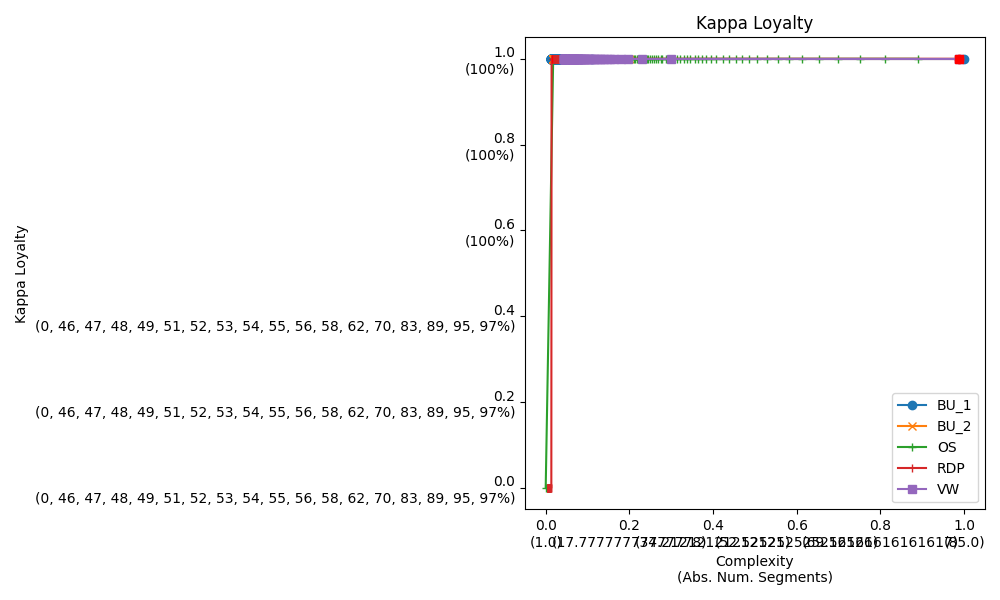
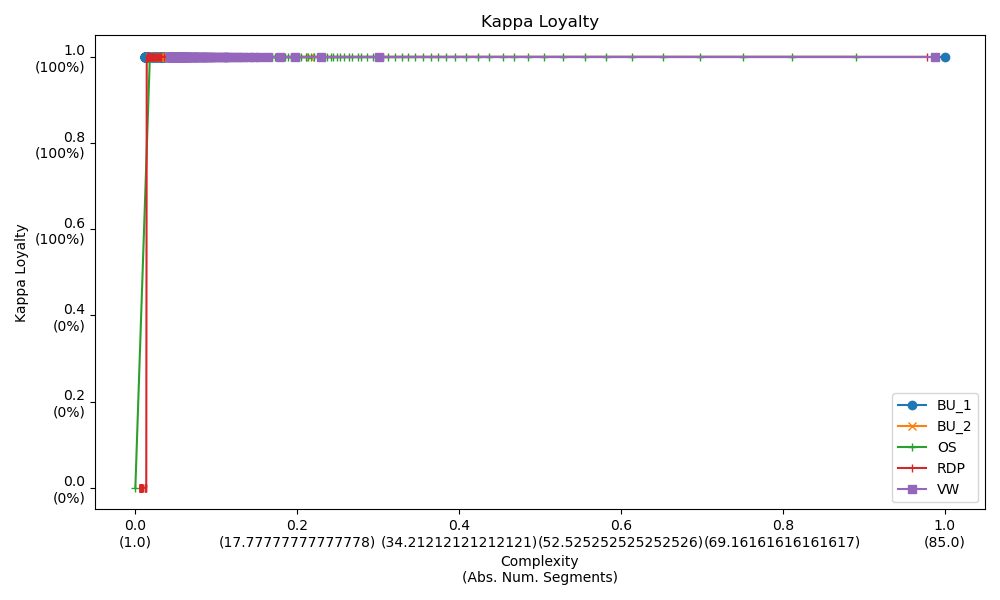
Fixed error when loading data as it included labels. Added a function in metrics to get comp at given loyalty

diff --git a/Utils/metrics.py b/Utils/metrics.py
@@ -3,8 +3,9 @@ from matplotlib import pyplot as plt
 from sklearn.metrics import cohen_kappa_score
 import pandas as pd
 from kneed import KneeLocator
+import pandas as pd
 
-from Utils.dataTypes import SegmentedTS 
+from dataTypes import SegmentedTS 
 
 def score_simplicity(approximation: SegmentedTS) -> float:
     if approximation.num_real_segments is None:
@@ -137,10 +138,7 @@ def find_knee_curve(x_values: list, y_values: list) -> tuple[float, float]:
     return knee_x, knee_y
 
 
-if __name__ == '__main__':
-    import pandas as pd
-    results_df = pd.read_csv("./results/results_copy.csv")
-
+def update_auc(results_df: pd.DataFrame) -> None:
     datasets_names = results_df["dataset"].unique().tolist()
     datasets = [dataset.replace("TEST_normalized","") for dataset in datasets_names]
 
@@ -155,14 +153,8 @@ if __name__ == '__main__':
             print(f"Model {model}")
             df = pd.read_csv(f"results/{dataset}/{model}_alpha_complexity_loyalty.csv")
             auc_values, filtered_curves = auc(df, show_fig=False)
-            
-            knees = {}
-            for simp_alg in filtered_curves.keys():
-                filtered_curve = filtered_curves[simp_alg]
-                filtered_complexity = filtered_curve[0]
-                filtered_kappa_loyalty = filtered_curve[1]
-                knee = find_knee_curve(filtered_complexity, filtered_kappa_loyalty)
-                knees[simp_alg] = knee
+            comp_threshold = get_loylaty_by_threshold(df, 0.8)
+                
 
             simp_alg = ["OS", "RDP", "VW", "BU_1", "BU_2"]
 
@@ -171,7 +163,7 @@ if __name__ == '__main__':
                 
                 if query_mask.any(): rows_to_drop.extend(results_df[query_mask].index.tolist())
                 
-                new_row = {"dataset": f"{dataset}TEST_normalized","model": f"{model}_norm.pth","simp_algorithm": alg,"performance": auc_values[alg],"knee(x,y)": str(knees[alg]),"time": 0.0}
+                new_row = {"dataset": f"{dataset}TEST_normalized","model": f"{model}_norm.pth","simp_algorithm": alg,"performance": auc_values[alg],"comp@loy=0.8": comp_threshold[alg],"time": 0.0}
                 rows_to_update.append(new_row)
     
     if rows_to_drop: results_df = results_df.drop(index=rows_to_drop)
@@ -182,3 +174,70 @@ if __name__ == '__main__':
         
     results_df.to_csv("./results/results_copy.csv", index=False)
     print("done")
+
+def get_loylaty_by_threshold(df: pd.DataFrame, loyalty_threshold: float, metric:str="Kappa Loyalty") -> dict[str, float]:
+    algorithms = df["Type"].unique()
+    threshold_comp = {}
+    
+    for algorithm in algorithms:
+        complexity = df["Complexity"].copy().where(df["Type"] == algorithm).dropna().to_list()
+        loyalty = df[metric].copy().where(df["Type"] == algorithm).dropna().to_list()
+
+        sort_id = sorted(range(len(complexity)), key=lambda x: complexity[x])
+        complexity = [complexity[x] for x in sort_id]
+        loyalty = [loyalty[x] for x in sort_id]
+        
+        if loyalty[-1] != 1 or complexity[-1] != 1:
+            complexity.append(1)
+            loyalty.append(1)
+
+        #print(min(complexity), max(complexity))
+
+        if loyalty_threshold in loyalty:
+            threshold_idx = loyalty.index(loyalty_threshold)
+            threshold_comp[algorithm] = complexity[threshold_idx]
+        else:
+            interpolated_comp  = np.inf
+            for i in range(len(complexity)-1):
+                if loyalty[i] < loyalty_threshold and loyalty[i+1] > loyalty_threshold:
+                    interpolated_comp = np.interp(x=[0.8],xp=[loyalty[i], loyalty[i+1]], fp=[complexity[i], complexity[i+1]])
+                    threshold_comp[algorithm] = interpolated_comp
+                    assert interpolated_comp < 1.0, "Interpolated value greater than one"
+                    break
+                elif loyalty[i] > loyalty_threshold and loyalty[i+1] > loyalty_threshold:
+                    interpolated_comp = 1.0
+                    threshold_comp[algorithm] = interpolated_comp
+
+            if interpolated_comp == np.inf:
+                print("No interpolartion found")
+                raise ValueError
+
+    return threshold_comp
+
+
+if __name__ == '__main__':
+    from plotting import plot_csv_complexity_kappa_loyalty
+    datasets = ['ProximalPhalanxOutlineCorrect', 'ItalyPowerDemand', 'MoteStrain', 'GunPointOldVersusYoung', 'MiddlePhalanxTW', 'ECG200', 'SonyAIBORobotSurface1', 'ElectricDevices', 'BME', 'Chinatown', 'DistalPhalanxOutlineAgeGroup', 'MedicalImages', 'TwoPatterns', 'UMD', 'ECG5000', 'TwoLeadECG', 'GunPointAgeSpan', 'MiddlePhalanxOutlineAgeGroup', 'ProximalPhalanxOutlineAgeGroup', 'ProximalPhalanxTW', 'SmoothSubspace', 'Plane', 'MiddlePhalanxOutlineCorrect', 'Adiac', 'SwedishLeaf', 'ECGFiveDays', 'PhalangesOutlinesCorrect', 'FacesUCR', 'CBF', 'DistalPhalanxOutlineCorrect', 'DistalPhalanxTW', 'Wafer']
+    #datasets = ['MoteStrain', 'ECG5000', 'ECGFiveDays', 'Wafer']
+    model = "cnn"
+    for dataset in datasets:
+        print(dataset)
+        results_file = f"results/{dataset}/{model}_alpha_complexity_loyalty.csv"
+        df = pd.read_csv(results_file)
+        values = get_loylaty_by_threshold(df, 0.8)
+        #for alg in values:
+        #    if values[alg] > 1:
+        #        print(dataset)
+        #        print(alg)
+        #        print(values[alg])
+        #fig = plot_csv_complexity_kappa_loyalty(results_file)
+        #plt.show()
+        #plt.show(block=False)
+        #plt.pause(3)
+        #plt.close()
+
+    
+    if False:
+        results_df = pd.read_csv("./results/results_copy.csv")
+        update_auc(results_df=results_df)
+

diff --git a/Utils/plotting.py b/Utils/plotting.py
@@ -89,6 +89,7 @@ def plot_csv_complexity_kappa_loyalty(file:str, points:dict={}) -> Figure:
         if points != {}:
             point_x = float(points[name][0])
             point_y = float(points[name][1])
+            
             ax.plot(point_x, point_y, color='red', marker=representation_type[i])
             #ax.axhline(y=point_y, color='red', linestyle='--', alpha=0.2)
             #ax.axvline(x=point_x, color='red', linestyle='--', alpha=0.2)
@@ -105,18 +106,17 @@ def plot_csv_complexity_kappa_loyalty(file:str, points:dict={}) -> Figure:
     x_labels = []
     for comp in complexity_ticks:
         closest_comp = df["Complexity"].iloc[(df["Complexity"] - comp).abs().argsort()[:1]].values[0]
-        segments = sorted(df[df["Complexity"] == closest_comp]["Num Segments"].unique())
-        segments_str = ", ".join(map(str, segments))
-        x_labels.append(f"{comp:.1f}\n({segments_str})")
+        segment = sorted(df[df["Complexity"] == closest_comp]["Num Segments"].unique())[0]
+        segment = round(segment,2)
+        x_labels.append(f"{comp:.1f}\n({segment})")
 
     if "Percentage Agreement" in df.columns:
-        loyalty_ticks = np.linspace(df["Kappa Loyalty"].min(), df["Kappa Loyalty"].max(), num_ticks)
+        loyalty_ticks = np.linspace(df["Kappa Loyalty"].min(), df["Kappa Loyalty"].max(), num_ticks)    #Sampled points of kappa
         y_labels = []
         for loyalty in loyalty_ticks:
             closest_loyalty = df["Kappa Loyalty"].iloc[(df["Kappa Loyalty"] - loyalty).abs().argsort()[:1]].values[0]
-            segments = sorted(df[df["Kappa Loyalty"] == closest_loyalty]["Percentage Agreement"].unique())
-            segments_str = ", ".join(map(str, segments))
-            y_labels.append(f"{loyalty:.1f}\n({segments_str}%)")
+            segments = sorted(df[df["Kappa Loyalty"] == closest_loyalty]["Percentage Agreement"].unique())[0]
+            y_labels.append(f"{loyalty:.1f}\n({segments}%)")
         ax.set_yticks(loyalty_ticks)
         ax.set_yticklabels(y_labels) 
     

diff --git a/Utils/load_data.py b/Utils/load_data.py
@@ -55,7 +55,7 @@ def load_dataset(dataset_name: str, data_type: str = "TRAIN") -> np.ndarray:
     
     # Remove the first column (index 0) along axis 1 (columns)
     data = np.delete(array_2d, 0, axis=1)
-    return array_2d
+    return data
 
 
 def load_dataset_org_labels(dataset_name: str, data_type: str = "TRAIN") -> np.ndarray:
